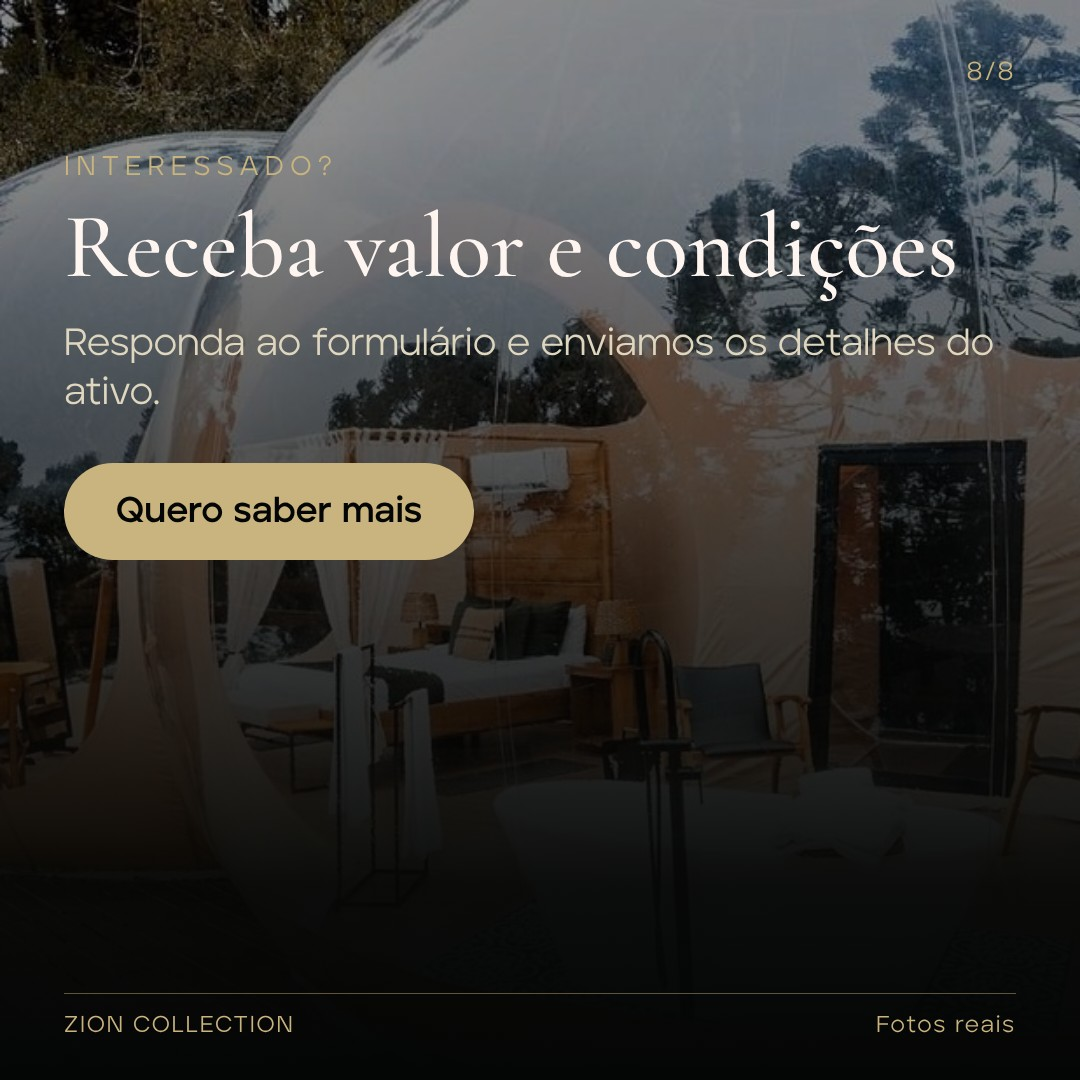
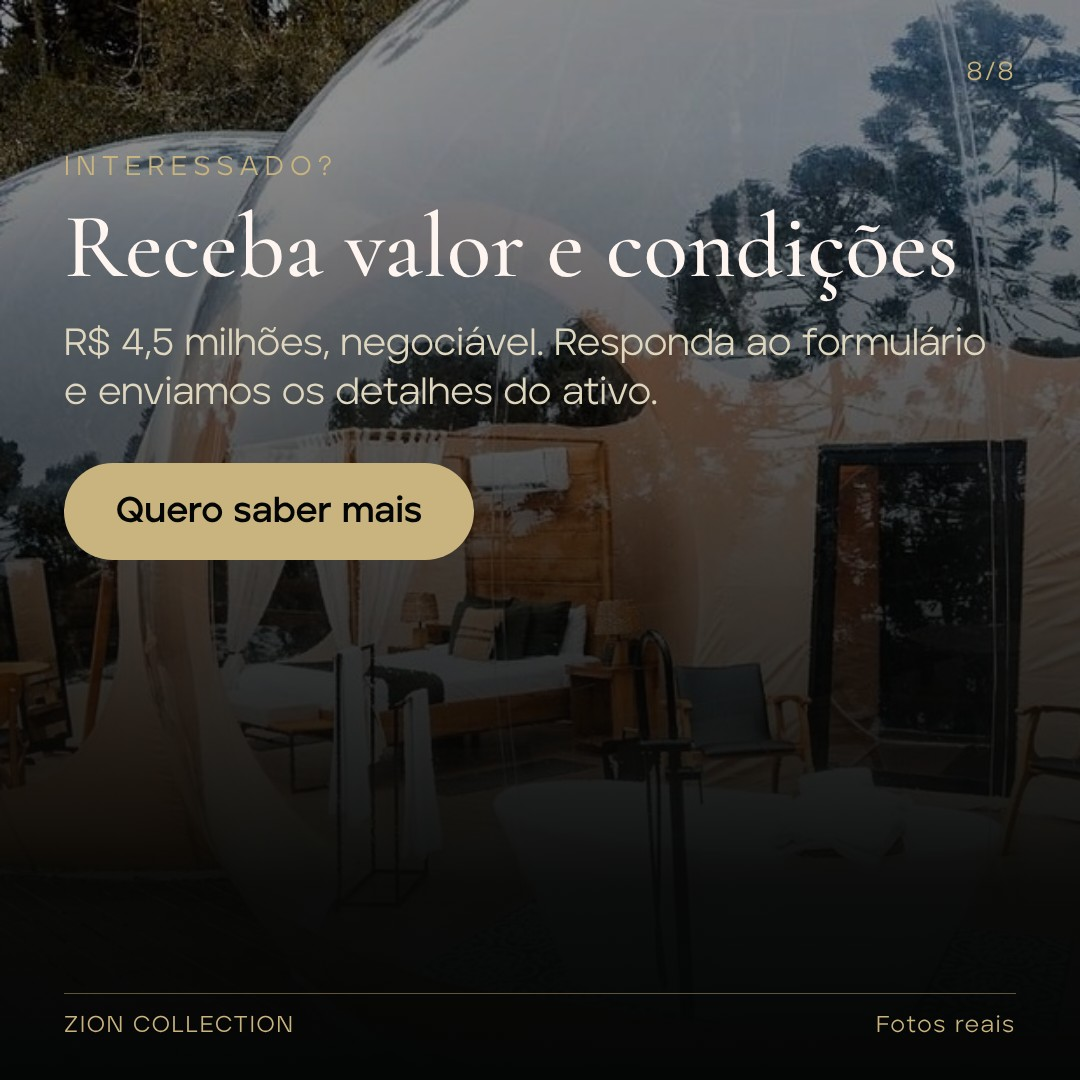
Urubici: preço R$ 4,5 mi negociável e operação com mais de 5 anos nos criativos
Claude-Session: https://claude.ai/code/session_01BzUk5bYdjCT6eSVqUG9zKZ

Changed region(s): [[0.0611, 0.3056, 0.9167, 0.3972]]

diff --git a/producao/venda-urubici/criativos/build.js b/producao/venda-urubici/criativos/build.js
@@ -21,8 +21,8 @@ const full=(img,pos,grad)=>`<div class=bg style="background-image:url(${foto(img
 const S=1080,N=8;
 const page=(w,h,inner,extra)=>`<style>${base}body{width:${w}px;height:${h}px}${extra||''}</style>${inner}`;
 const CARDS=[
- page(S,S,`${full('bolha-araucaria','center 40%',58)}<div class=n>1/${N}</div>${cap('À venda · Urubici (SC)','Ativo imobiliário em Urubici, com operação de glamping ativa','3 hectares, 3 suítes glamping e 2 guest houses',68)}${foot()}`),
- page(S,S,`<div class=n>2/${N}</div>${ph('aerea-bolha',64,80,560,420)}${ph('jacuzzi-bolha',644,80,372,420,'center')}${ph('interior-cama',64,520,372,300)}${ph('aerea-mata',456,520,270,300)}${ph('noturna',746,520,270,300,'center')}<div style="position:absolute;left:64px;right:64px;bottom:118px"><div class=k>Glamping · luxo natural</div><div style="font-family:C;font-size:58px;line-height:1.05;margin-top:8px">Hospedagem de experiência na Serra Catarinense</div></div>${foot()}`,'body{background:#040605}'),
+ page(S,S,`${full('bolha-araucaria','center 40%',58)}<div class=n>1/${N}</div>${cap('À venda · Urubici (SC)','Imóvel e operação hoteleira em Urubici','R$ 4,5 milhões · negociável. Operação com mais de 5 anos.',76)}${foot()}`),
+ page(S,S,`<div class=n>2/${N}</div>${ph('aerea-bolha',64,80,560,420)}${ph('jacuzzi-bolha',644,80,372,420,'center')}${ph('interior-cama',64,520,372,300)}${ph('aerea-mata',456,520,270,300)}${ph('noturna',746,520,270,300,'center')}<div style="position:absolute;left:64px;right:64px;bottom:118px"><div class=k>Glamping · luxo natural</div><div style="font-family:C;font-size:58px;line-height:1.05;margin-top:8px">Hospedagem de experiência em Urubici, onde neva no inverno</div></div>${foot()}`,'body{background:#040605}'),
  page(S,S,`<div class=n>3/${N}</div><div style="position:absolute;left:64px;right:64px;top:90px"><div class=k>O que vem no ativo</div><h1 style="font-size:70px;margin:12px 0 30px">Terreno, hospedagens e estrutura de operação</h1>
  <div class=li><div class=ic>✓</div><div><b>3 hectares escriturados</b><span>Condomínio Mont Blanc Village, de frente para a SC-110</span></div></div>
  <div class=li><div class=ic>✓</div><div><b>3 suítes glamping e 2 guest houses</b><span>American Guest House e Scandi Guest House</span></div></div>
@@ -31,15 +31,15 @@ const CARDS=[
  page(S,S,`${full('jacuzzi-bolha','center 55%',58)}<div class=n>5/${N}</div>${cap('Wellness e luxo natural','Deck privativo com banheira de imersão ao ar livre','Ar-condicionado, frigobar e enxoval de alta qualidade',64)}${foot()}`),
  page(S,S,`<div class=n>6/${N}</div>${ph('interior-banheira',64,80,470,330)}${ph('cama-cortinas',554,80,462,330)}${ph('por-do-sol',64,430,470,300)}${ph('bolha-banheira',554,430,462,300)}<div style="position:absolute;left:64px;right:64px;bottom:118px"><div class=k>Por dentro das suítes</div><div style="font-family:C;font-size:58px;line-height:1.05;margin-top:8px">Cama queen, vista aberta e iluminação cênica</div></div>${foot()}`,'body{background:#040605}'),
  page(S,S,`<div class=n>7/${N}</div><div style="position:absolute;left:64px;right:64px;top:100px"><div class=k>Operação hoteleira ativa</div><h1 style="font-size:70px;margin:12px 0 32px">Um ativo que já opera. E você confere.</h1>
- <div class=li><div class=ic>✓</div><div><b>Hospedagem em funcionamento</b><span>Estrutura física e equipe instaladas</span></div></div>
+ <div class=li><div class=ic>✓</div><div><b>Operação com mais de 5 anos</b><span>Hospedagem em funcionamento, recebendo hóspedes</span></div></div>
  <div class=li><div class=ic>✓</div><div><b>Faturamento e ocupação demonstráveis</b><span>Resultado da operação auditável, após o termo de confidencialidade</span></div></div>
  <div class=li><div class=ic>✓</div><div><b>Ativo off-market</b><span>Informações completas mediante contato direto</span></div></div></div>${ph('aerea-mata',64,720,952,230,'center 45%')}${foot('Material confidencial')}`,'body{background:#1B2117}'),
- page(S,S,`${full('bolha-banheira','center 50%',20)}<div class=n>8/${N}</div><div style="position:absolute;left:64px;right:64px;top:150px"><div class=k>Interessado?</div><h1 style="font-size:92px;margin:16px 0 26px">Receba valor e condições</h1><div style="font-size:38px;color:#DED6BF;line-height:1.3">Responda ao formulário e enviamos os detalhes do ativo.</div><div style="display:inline-block;margin-top:44px;padding:26px 52px;background:#C9B37E;color:#040605;border-radius:60px;font-size:36px;font-weight:700">Quero saber mais</div></div>${foot()}`,'.bg{filter:brightness(.55)}')
+ page(S,S,`${full('bolha-banheira','center 50%',20)}<div class=n>8/${N}</div><div style="position:absolute;left:64px;right:64px;top:150px"><div class=k>Interessado?</div><h1 style="font-size:92px;margin:16px 0 26px">Receba valor e condições</h1><div style="font-size:38px;color:#DED6BF;line-height:1.3">R$ 4,5 milhões, negociável. Responda ao formulário e enviamos os detalhes do ativo.</div><div style="display:inline-block;margin-top:44px;padding:26px 52px;background:#C9B37E;color:#040605;border-radius:60px;font-size:36px;font-weight:700">Quero saber mais</div></div>${foot()}`,'.bg{filter:brightness(.55)}')
 ];
 const ads=[
- {id:'01-ativo',img:'bolha-araucaria',pos:'center 45%',k:'À venda · Urubici (SC)',h:'Ativo imobiliário com operação de glamping ativa',s:'3 hectares escriturados, 3 suítes glamping e 2 guest houses.',chips:['Glamping','Luxo natural','Operação ativa']},
- {id:'02-estrutura',img:'aerea-bolha',pos:'center 40%',k:'Urubici · Serra Catarinense',h:'Não é projeto. É um ativo em operação.',s:'Estrutura completa, equipe instalada e hospedagem funcionando.',chips:['Faturamento demonstrável','Ocupação e DRE','Ativo off-market']},
- {id:'03-experiencia',img:'jacuzzi-bolha',pos:'center 50%',k:'Hospedagem de experiência',h:'Glamping de luxo natural, pronto para operar',s:'Suítes com deck privativo, banheira de imersão e céu estrelado.',chips:['3 suítes glamping','2 guest houses','Mont Blanc Village']}
+ {id:'01-ativo',img:'bolha-araucaria',pos:'center 45%',k:'À venda · Urubici (SC)',h:'Imóvel e operação hoteleira em Urubici',s:'R$ 4,5 milhões, negociável. Operação com mais de 5 anos.',chips:['3 hectares escriturados','Glamping e guest houses','Neva no inverno']},
+ {id:'02-estrutura',img:'aerea-bolha',pos:'center 40%',k:'Urubici · Serra Catarinense',h:'Não é projeto. É um ativo em operação.',s:'Operação hoteleira com mais de 5 anos, faturando e recebendo hóspedes. R$ 4,5 milhões, negociável.',chips:['Faturamento demonstrável','Ocupação e DRE','Ativo off-market']},
+ {id:'03-experiencia',img:'jacuzzi-bolha',pos:'center 50%',k:'Hospedagem de experiência',h:'Glamping de luxo natural, pronto para operar',s:'Imóvel mais operação por R$ 4,5 milhões, negociável.',chips:['3 suítes glamping','2 guest houses','Mont Blanc Village']}
 ];
 const adHtml=a=>`<style>${base}body{width:1080px;height:1350px}.sh{position:absolute;left:0;right:0;bottom:0;height:62%;background:linear-gradient(transparent,rgba(4,6,5,.9) 45%,#040605)}.t{position:absolute;left:70px;right:70px;bottom:140px}.ch{display:flex;flex-wrap:wrap;gap:14px;margin-top:30px}.ch i{font-style:normal;font-size:29px;color:#C9B37E;border:2px solid rgba(201,179,126,.6);border-radius:40px;padding:10px 24px;background:rgba(4,6,5,.55)}</style><div class=bg style="height:760px;background-image:url(${foto(a.img)});background-position:${a.pos}"></div><div class=sh style="top:560px;height:auto"></div><div class=t><div class=k>${a.k}</div><h1 style="font-size:80px;margin-top:20px">${a.h}</h1><div style="font-size:38px;color:#DED6BF;margin-top:24px;line-height:1.3">${a.s}</div><div class=ch>${a.chips.map(c=>'<i>✓ '+c+'</i>').join('')}</div></div><div class=f style="left:70px;right:70px;bottom:56px"><span>ZION COLLECTION</span><span>Fotos reais</span></div>`;
 (async()=>{const b=await chromium.launch();
